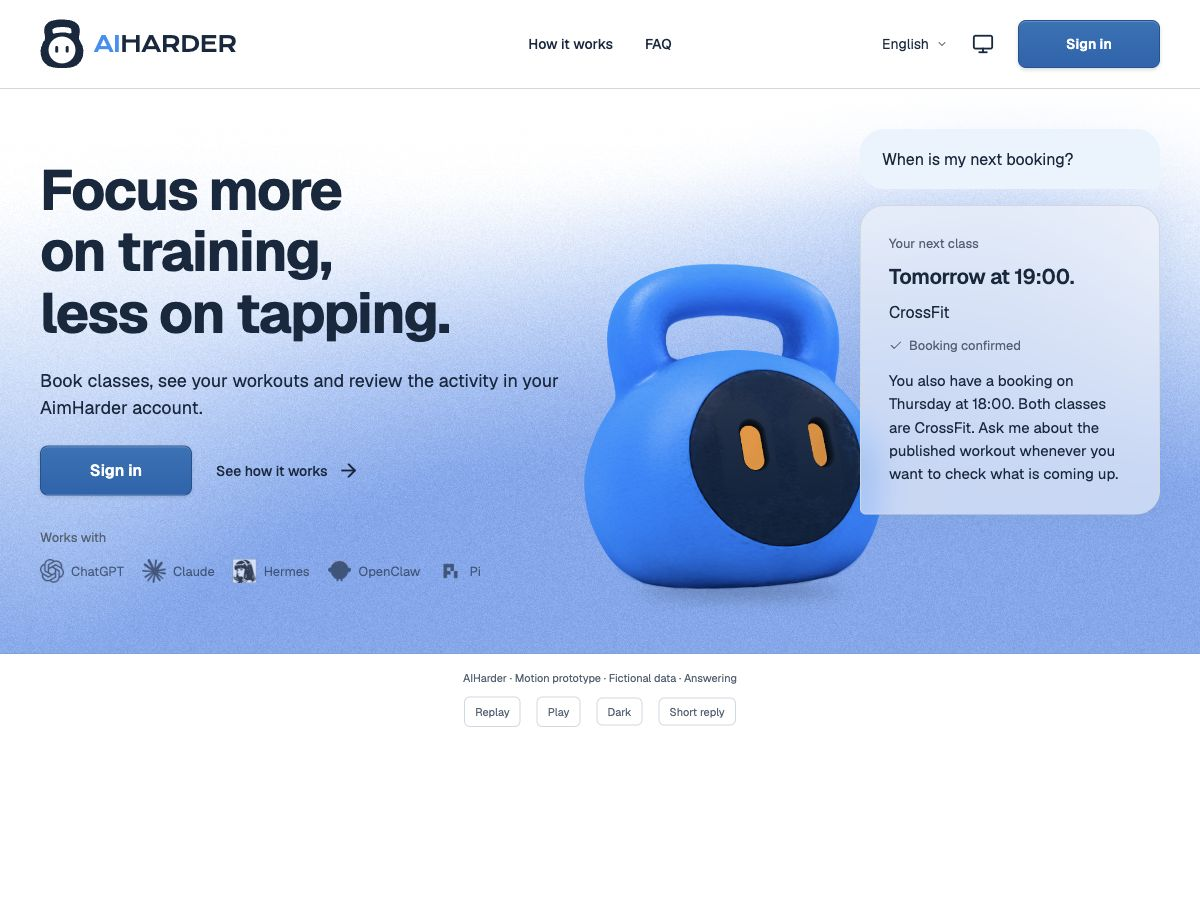
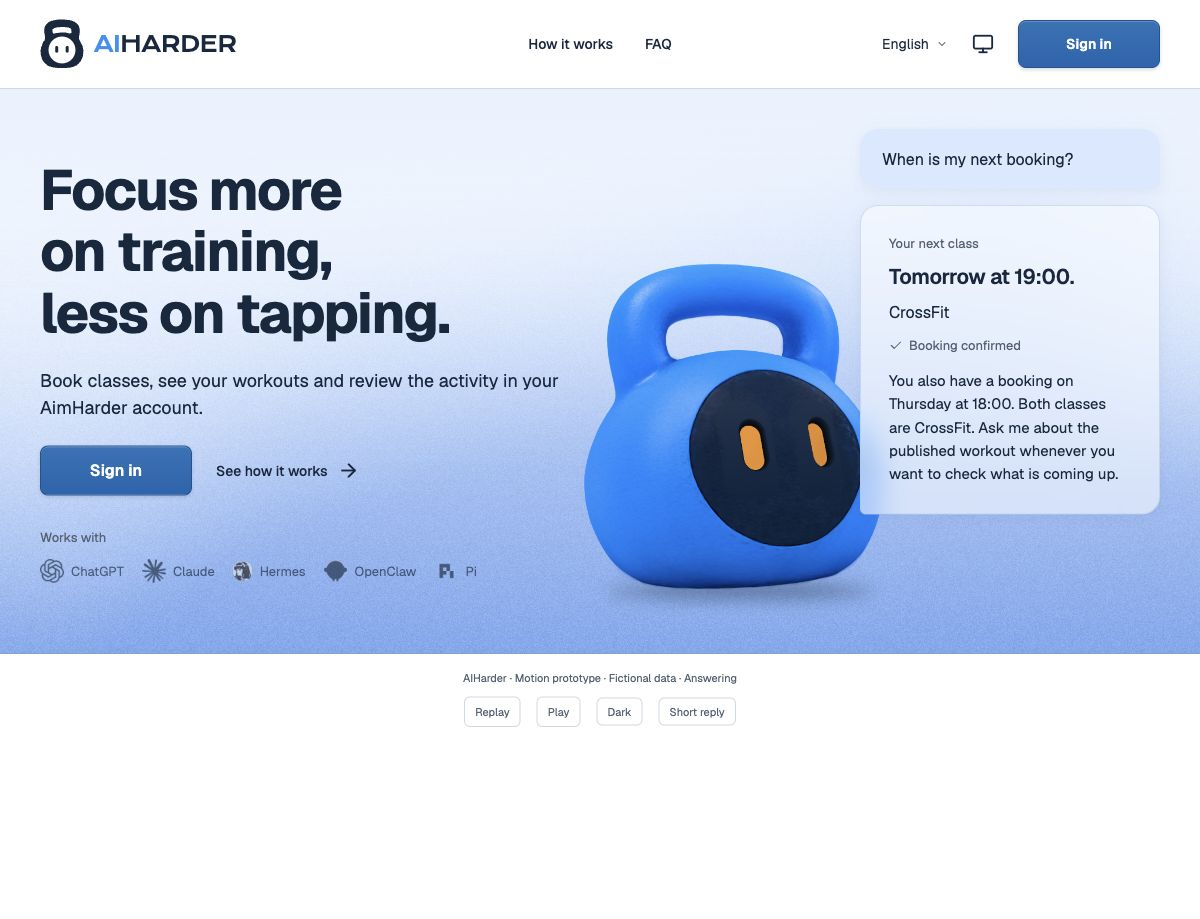
design: soften hero palette and harmonize bubbles and mascot shadow

diff --git a/design/home-study/hero-motion-prototype.html b/design/home-study/hero-motion-prototype.html
@@ -2,8 +2,8 @@
 <!-- Throwaway #95 motion prototype: one owner-directed hero, no live chat or account access. -->
 <html lang="en"><head><meta charset="utf-8"><meta name="viewport" content="width=device-width,initial-scale=1"><title>AIHarder — Kettle motion prototype</title><script>const p=new URLSearchParams(location.search);document.documentElement.dataset.theme=p.get('theme')==='dark'?'dark':'light';document.documentElement.dataset.state=['waiting','question','thinking','answer'].includes(p.get('state'))?p.get('state'):'answer';</script><style>
 @font-face{font-family:Geist;src:url('./assets/fonts/Geist.ttf');font-weight:100 900;font-display:swap}@font-face{font-family:Krona;src:url('./assets/fonts/KronaOne-Regular.ttf');font-weight:400;font-display:swap}
-:root{--bg:#fff;--surface:#f4f7fa;--ink:#14283f;--muted:#516174;--line:#cfd8e3;--bubble:#e9f3fe;--blue:#2490f4;--cta:#1765b0;--cta-top:#2174b9;--on-cta:#fff;--edge:#12528f;--shadow:#14283f29;--reply:#f4f7fa99;--ground:#14283f32;--contact:#14283f40;color-scheme:light}:root[data-theme=dark]{--bg:#0d1521;--surface:#142033;--ink:#edf3fa;--muted:#abbacd;--line:#34465e;--bubble:#1c3551;--cta:#2490f4;--cta-top:#47a3f6;--on-cta:#0d1521;--edge:#61a9eb;--shadow:#0000003d;--reply:#14203399;--ground:#00000080;--contact:#00000099;color-scheme:dark}*{box-sizing:border-box}body{margin:0;background:var(--bg);color:var(--ink);font:16px/1.5 Geist,Arial,sans-serif}a{color:inherit;text-decoration:none}h1,p{margin:0}.container{width:calc(100% - 80px);max-width:1200px;margin:auto}.icon{width:22px;height:22px;display:inline-block;flex:none;background:currentColor;mask:var(--icon) center/contain no-repeat}.site-header{border-bottom:1px solid var(--line)}.header-inner{min-height:88px;display:grid;grid-template-columns:1fr 1fr 1fr;align-items:center}.brand{display:flex;gap:10px;align-items:center;font:400 21.875px/1 Krona,sans-serif;letter-spacing:-.546875px;white-space:nowrap}.brand img{width:43.75px;height:50px;object-fit:contain}.brand b{color:var(--blue);font-weight:400}.nav{display:flex;align-items:center;justify-content:center;gap:32px;font-size:14px;font-weight:500}.utilities{display:flex;align-items:center;justify-content:flex-end;gap:24px;font-size:14px}.language{display:flex;gap:7px;align-items:center}.language .icon{width:12px;height:12px}.primary{display:inline-flex;align-items:center;justify-content:center;min-height:48px;padding:12px 28px;border-radius:8px;border:1px solid var(--edge);font-weight:600;background:linear-gradient(var(--cta-top),var(--cta));color:var(--on-cta);box-shadow:inset 0 1px #ffffff30,0 2px 4px var(--shadow)}.header-signin{min-width:142px}.hero{padding:32px 0;display:grid;grid-template-columns:532px minmax(0,1fr);gap:72px;align-items:center}.pitch{display:flex;flex-direction:column;gap:24px;position:relative;z-index:2}h1{font-size:56px;line-height:1.1;letter-spacing:-1.5px;font-weight:700}.intro{font-size:18px;line-height:1.5;color:var(--muted);max-width:532px}.actions{display:flex;gap:24px;align-items:center}.actions .primary{min-width:152px}.text-link{display:inline-flex;align-items:center;gap:10px;font-size:14px;font-weight:500}.works{padding-top:8px}.works-label{font-size:13px;color:var(--muted);margin-bottom:12px}.apps{display:flex;gap:18px;align-items:center;opacity:.65}.app{display:flex;align-items:center;gap:7px;font-size:13px;white-space:nowrap}.app img{width:24px;height:24px;object-fit:contain}.scene{position:relative;height:500px;min-width:0}.kettle{position:absolute;left:-80px;top:96px;width:360px;height:390px;z-index:1;overflow:hidden}.kettle img{position:absolute;width:493.14px;height:493.14px;max-width:none;left:-77.06px;top:-65.5px}.ground{position:absolute;left:-16px;top:476px;width:236px;height:20px;border-radius:50%;background:var(--ground);filter:blur(8px);z-index:0;transform-origin:center}.ground::after{content:"";position:absolute;left:28px;top:5px;width:180px;height:7px;border-radius:50%;background:var(--contact);filter:blur(2px)}.bubble{position:absolute;font-size:16px;line-height:1.5;z-index:3}.question{right:0;top:8px;width:300px;background:var(--bubble);border-radius:24px 24px 6px 24px;padding:18px 22px}.answer{right:0;top:var(--reply-top,84px);width:344px;background:var(--reply);backdrop-filter:blur(12px);-webkit-backdrop-filter:blur(12px);border:1px solid var(--line);border-radius:24px 24px 24px 6px;padding:28px;box-shadow:0 6px 24px #14283f09}.answer .eyebrow{font-size:13px;color:var(--muted);margin-bottom:10px}.answer strong{display:block;font-size:21px;line-height:1.25;font-weight:600;letter-spacing:-.35px}.answer .class-name{margin-top:10px;font-size:16px}.answer .confirmed{display:flex;gap:6px;align-items:center;color:var(--muted);font-size:13px;margin-top:12px}.answer .confirmed .icon{width:14px;height:14px}.thinking{right:0;top:var(--reply-top,84px);width:90px;height:60px;border:1px solid var(--line);border-radius:22px;background:var(--surface);align-items:center;justify-content:center;gap:7px;display:none}.thinking span{display:block;width:7px;height:7px;background:var(--muted);border-radius:50%}.thinking span:nth-child(2){opacity:.7}.thinking span:nth-child(3){opacity:.4}[data-state=waiting] .question,[data-state=waiting] .answer,[data-state=question] .answer,[data-state=thinking] .answer{display:none}[data-state=thinking] .thinking{display:flex}.sr-only{position:absolute;width:1px;height:1px;overflow:hidden;clip-path:inset(50%)}.review-note{font-size:11px;color:var(--muted);padding:16px;text-align:center;border-top:1px solid var(--line)}
-@media(max-width:1320px){.kettle{left:-60px;top:126px;width:300px;height:344px}.kettle img{width:435.13px;height:435.13px;left:-68px;top:-57.79px}.answer{width:300px}.ground{left:-8px;top:460px;width:210px}.ground::after{width:154px}}
+:root{--bg:#fff;--surface:#f4f7fa;--ink:#14283f;--muted:#516174;--line:#cfd8e3;--bubble:#d9e9ff;--blue:#2490f4;--cta:#1765b0;--cta-top:#2174b9;--on-cta:#fff;--edge:#12528f;--shadow:#14283f29;--reply:#f8fbff99;--bubble-edge:#a9c3e480;--bubble-shadow:#234b7a12;--ground:#14283f4d;--contact:#14283f59;color-scheme:light}:root[data-theme=dark]{--bg:#0d1521;--surface:#142033;--ink:#edf3fa;--muted:#abbacd;--line:#34465e;--bubble:#203d5e;--cta:#2490f4;--cta-top:#47a3f6;--on-cta:#0d1521;--edge:#61a9eb;--shadow:#0000003d;--reply:#142b4599;--bubble-edge:#48688b80;--bubble-shadow:#00000026;--ground:#000000a6;--contact:#000000b3;color-scheme:dark}*{box-sizing:border-box}body{margin:0;background:var(--bg);color:var(--ink);font:16px/1.5 Geist,Arial,sans-serif}a{color:inherit;text-decoration:none}h1,p{margin:0}.container{width:calc(100% - 80px);max-width:1200px;margin:auto}.icon{width:22px;height:22px;display:inline-block;flex:none;background:currentColor;mask:var(--icon) center/contain no-repeat}.site-header{border-bottom:1px solid var(--line)}.header-inner{min-height:88px;display:grid;grid-template-columns:1fr 1fr 1fr;align-items:center}.brand{display:flex;gap:10px;align-items:center;font:400 21.875px/1 Krona,sans-serif;letter-spacing:-.546875px;white-space:nowrap}.brand img{width:43.75px;height:50px;object-fit:contain}.brand b{color:var(--blue);font-weight:400}.nav{display:flex;align-items:center;justify-content:center;gap:32px;font-size:14px;font-weight:500}.utilities{display:flex;align-items:center;justify-content:flex-end;gap:24px;font-size:14px}.language{display:flex;gap:7px;align-items:center}.language .icon{width:12px;height:12px}.primary{display:inline-flex;align-items:center;justify-content:center;min-height:48px;padding:12px 28px;border-radius:8px;border:1px solid var(--edge);font-weight:600;background:linear-gradient(var(--cta-top),var(--cta));color:var(--on-cta);box-shadow:inset 0 1px #ffffff30,0 2px 4px var(--shadow)}.header-signin{min-width:142px}.hero{padding:32px 0;display:grid;grid-template-columns:532px minmax(0,1fr);gap:72px;align-items:center}.pitch{display:flex;flex-direction:column;gap:24px;position:relative;z-index:2}h1{font-size:56px;line-height:1.1;letter-spacing:-1.5px;font-weight:700}.intro{font-size:18px;line-height:1.5;color:var(--muted);max-width:532px}.actions{display:flex;gap:24px;align-items:center}.actions .primary{min-width:152px}.text-link{display:inline-flex;align-items:center;gap:10px;font-size:14px;font-weight:500}.works{padding-top:8px}.works-label{font-size:13px;color:var(--muted);margin-bottom:12px}.apps{display:flex;gap:18px;align-items:center;opacity:.65}.app{display:flex;align-items:center;gap:7px;font-size:13px;white-space:nowrap}.app img{width:24px;height:24px;object-fit:contain}.app[data-app=hermes] img{width:20px;height:20px;border-radius:50%;filter:grayscale(1) contrast(.8);object-fit:cover}.scene{position:relative;height:500px;min-width:0}.kettle{position:absolute;left:-80px;top:96px;width:360px;height:390px;z-index:1;overflow:hidden}.kettle img{position:absolute;width:493.14px;height:493.14px;max-width:none;left:-77.06px;top:-65.5px}.ground{position:absolute;left:-48px;top:476px;width:300px;height:20px;border-radius:50%;background:var(--ground);filter:blur(8px);z-index:0;transform-origin:center}.ground::after{content:"";position:absolute;left:38px;top:5px;width:224px;height:7px;border-radius:50%;background:var(--contact);filter:blur(2px)}.bubble{position:absolute;font-size:16px;line-height:1.5;z-index:3;box-shadow:0 3px 12px var(--bubble-shadow)}.question{right:0;top:8px;width:300px;background:var(--bubble);border-radius:18px 18px 6px 18px;padding:18px 22px}.answer{right:0;top:var(--reply-top,84px);width:344px;background:var(--reply);backdrop-filter:blur(12px);-webkit-backdrop-filter:blur(12px);border:1px solid var(--bubble-edge);border-radius:18px 18px 18px 6px;padding:28px}.answer .eyebrow{font-size:13px;color:var(--muted);margin-bottom:10px}.answer strong{display:block;font-size:21px;line-height:1.25;font-weight:600;letter-spacing:-.35px}.answer .class-name{margin-top:10px;font-size:16px}.answer .confirmed{display:flex;gap:6px;align-items:center;color:var(--muted);font-size:13px;margin-top:12px}.answer .confirmed .icon{width:14px;height:14px}.thinking{right:0;top:var(--reply-top,84px);width:90px;height:60px;border:1px solid var(--bubble-edge);border-radius:16px;background:var(--reply);backdrop-filter:blur(12px);-webkit-backdrop-filter:blur(12px);align-items:center;justify-content:center;gap:7px;display:none}.thinking span{display:block;width:7px;height:7px;background:var(--muted);border-radius:50%}.thinking span:nth-child(2){opacity:.7}.thinking span:nth-child(3){opacity:.4}[data-state=waiting] .question,[data-state=waiting] .answer,[data-state=question] .answer,[data-state=thinking] .answer{display:none}[data-state=thinking] .thinking{display:flex}.sr-only{position:absolute;width:1px;height:1px;overflow:hidden;clip-path:inset(50%)}.review-note{font-size:11px;color:var(--muted);padding:16px;text-align:center;border-top:1px solid var(--line)}
+@media(max-width:1320px){.kettle{left:-60px;top:126px;width:300px;height:344px}.kettle img{width:435.13px;height:435.13px;left:-68px;top:-57.79px}.answer{width:300px}.ground{left:-36px;top:460px;width:266px}.ground::after{left:34px;width:198px}}
 @media(max-width:1150px){.hero{grid-template-columns:46% 1fr;gap:40px}h1{font-size:50px}.brand{font-size:20px}.utilities{gap:16px}.nav{gap:24px}.question{width:270px}.answer{width:300px}.kettle{left:-70px}.apps{gap:12px}.app{font-size:12px;gap:5px}}
 @media(max-width:850px){.container{width:calc(100% - 40px)}.header-inner{grid-template-columns:1fr auto;min-height:80px}.nav{display:none}.utilities{gap:16px}.language{display:none}.hero{display:block;padding-top:28px}.pitch{max-width:532px}.scene{height:520px;margin:32px auto 0;max-width:596px}.kettle{left:0}.question{right:0}.answer{right:0}.apps{flex-wrap:wrap}h1{font-size:44px}.header-signin{min-width:100px;padding:12px 18px}.brand{font-size:17px}.brand img{width:35px;height:40px}}
[2 lines of base64/hex data omitted]

diff --git a/design/home-study/hero-graphic-still.html b/design/home-study/hero-graphic-still.html
@@ -2,8 +2,8 @@
 <!-- Static composition study for #95. No animation, real chat, account access or production behavior. -->
 <html lang="en"><head><meta charset="utf-8"><meta name="viewport" content="width=device-width,initial-scale=1"><title>AIHarder — Kettle hero composition</title><script>const p=new URLSearchParams(location.search);document.documentElement.dataset.theme=p.get('theme')==='dark'?'dark':'light';document.documentElement.dataset.state=['waiting','question','thinking','answer'].includes(p.get('state'))?p.get('state'):'answer';</script><style>
 @font-face{font-family:Geist;src:url('./assets/fonts/Geist.ttf');font-weight:100 900;font-display:swap}@font-face{font-family:Krona;src:url('./assets/fonts/KronaOne-Regular.ttf');font-weight:400;font-display:swap}
-:root{--bg:#fff;--surface:#f4f7fa;--ink:#14283f;--muted:#516174;--line:#cfd8e3;--bubble:#e9f3fe;--blue:#2490f4;--cta:#1765b0;--cta-top:#2174b9;--on-cta:#fff;--edge:#12528f;--shadow:#14283f29;--reply:#f4f7fa99;--ground:#14283f32;--contact:#14283f40;color-scheme:light}:root[data-theme=dark]{--bg:#0d1521;--surface:#142033;--ink:#edf3fa;--muted:#abbacd;--line:#34465e;--bubble:#1c3551;--cta:#2490f4;--cta-top:#47a3f6;--on-cta:#0d1521;--edge:#61a9eb;--shadow:#0000003d;--reply:#14203399;--ground:#00000080;--contact:#00000099;color-scheme:dark}*{box-sizing:border-box}body{margin:0;background:var(--bg);color:var(--ink);font:16px/1.5 Geist,Arial,sans-serif}a{color:inherit;text-decoration:none}h1,p{margin:0}.container{width:calc(100% - 80px);max-width:1200px;margin:auto}.icon{width:22px;height:22px;display:inline-block;flex:none;background:currentColor;mask:var(--icon) center/contain no-repeat}.site-header{border-bottom:1px solid var(--line)}.header-inner{min-height:88px;display:grid;grid-template-columns:1fr 1fr 1fr;align-items:center}.brand{display:flex;gap:10px;align-items:center;font:400 21.875px/1 Krona,sans-serif;letter-spacing:-.546875px;white-space:nowrap}.brand img{width:43.75px;height:50px;object-fit:contain}.brand b{color:var(--blue);font-weight:400}.nav{display:flex;align-items:center;justify-content:center;gap:32px;font-size:14px;font-weight:500}.utilities{display:flex;align-items:center;justify-content:flex-end;gap:24px;font-size:14px}.language{display:flex;gap:7px;align-items:center}.language .icon{width:12px;height:12px}.primary{display:inline-flex;align-items:center;justify-content:center;min-height:48px;padding:12px 28px;border-radius:8px;border:1px solid var(--edge);font-weight:600;background:linear-gradient(var(--cta-top),var(--cta));color:var(--on-cta);box-shadow:inset 0 1px #ffffff30,0 2px 4px var(--shadow)}.header-signin{min-width:142px}.hero{padding:32px 0;display:grid;grid-template-columns:532px minmax(0,1fr);gap:72px;align-items:center}.pitch{display:flex;flex-direction:column;gap:24px;position:relative;z-index:2}h1{font-size:56px;line-height:1.1;letter-spacing:-1.5px;font-weight:700}.intro{font-size:18px;line-height:1.5;color:var(--muted);max-width:532px}.actions{display:flex;gap:24px;align-items:center}.actions .primary{min-width:152px}.text-link{display:inline-flex;align-items:center;gap:10px;font-size:14px;font-weight:500}.works{padding-top:8px}.works-label{font-size:13px;color:var(--muted);margin-bottom:12px}.apps{display:flex;gap:18px;align-items:center;opacity:.65}.app{display:flex;align-items:center;gap:7px;font-size:13px;white-space:nowrap}.app img{width:24px;height:24px;object-fit:contain}.scene{position:relative;height:500px;min-width:0}.kettle{position:absolute;left:-80px;top:96px;width:360px;height:390px;z-index:1;overflow:hidden}.kettle img{position:absolute;width:493.14px;height:493.14px;max-width:none;left:-77.06px;top:-65.5px}.ground{position:absolute;left:-16px;top:476px;width:236px;height:20px;border-radius:50%;background:var(--ground);filter:blur(8px);z-index:0;transform-origin:center}.ground::after{content:"";position:absolute;left:28px;top:5px;width:180px;height:7px;border-radius:50%;background:var(--contact);filter:blur(2px)}.bubble{position:absolute;font-size:16px;line-height:1.5;z-index:3}.question{right:0;top:8px;width:300px;background:var(--bubble);border-radius:24px 24px 6px 24px;padding:18px 22px}.answer{right:0;top:var(--reply-top,84px);width:344px;background:var(--reply);backdrop-filter:blur(12px);-webkit-backdrop-filter:blur(12px);border:1px solid var(--line);border-radius:24px 24px 24px 6px;padding:28px;box-shadow:0 6px 24px #14283f09}.answer .eyebrow{font-size:13px;color:var(--muted);margin-bottom:10px}.answer strong{display:block;font-size:21px;line-height:1.25;font-weight:600;letter-spacing:-.35px}.answer .class-name{margin-top:10px;font-size:16px}.answer .confirmed{display:flex;gap:6px;align-items:center;color:var(--muted);font-size:13px;margin-top:12px}.answer .confirmed .icon{width:14px;height:14px}.thinking{right:0;top:var(--reply-top,84px);width:90px;height:60px;border:1px solid var(--line);border-radius:22px;background:var(--surface);align-items:center;justify-content:center;gap:7px;display:none}.thinking span{display:block;width:7px;height:7px;background:var(--muted);border-radius:50%}.thinking span:nth-child(2){opacity:.7}.thinking span:nth-child(3){opacity:.4}[data-state=waiting] .question,[data-state=waiting] .answer,[data-state=question] .answer,[data-state=thinking] .answer{display:none}[data-state=thinking] .thinking{display:flex}.sr-only{position:absolute;width:1px;height:1px;overflow:hidden;clip-path:inset(50%)}.review-note{font-size:11px;color:var(--muted);padding:16px;text-align:center;border-top:1px solid var(--line)}
-@media(max-width:1320px){.kettle{left:-60px;top:126px;width:300px;height:344px}.kettle img{width:435.13px;height:435.13px;left:-68px;top:-57.79px}.answer{width:300px}.ground{left:-8px;top:460px;width:210px}.ground::after{width:154px}}
+:root{--bg:#fff;--surface:#f4f7fa;--ink:#14283f;--muted:#516174;--line:#cfd8e3;--bubble:#d9e9ff;--blue:#2490f4;--cta:#1765b0;--cta-top:#2174b9;--on-cta:#fff;--edge:#12528f;--shadow:#14283f29;--reply:#f8fbff99;--bubble-edge:#a9c3e480;--bubble-shadow:#234b7a12;--ground:#14283f4d;--contact:#14283f59;color-scheme:light}:root[data-theme=dark]{--bg:#0d1521;--surface:#142033;--ink:#edf3fa;--muted:#abbacd;--line:#34465e;--bubble:#203d5e;--cta:#2490f4;--cta-top:#47a3f6;--on-cta:#0d1521;--edge:#61a9eb;--shadow:#0000003d;--reply:#142b4599;--bubble-edge:#48688b80;--bubble-shadow:#00000026;--ground:#000000a6;--contact:#000000b3;color-scheme:dark}*{box-sizing:border-box}body{margin:0;background:var(--bg);color:var(--ink);font:16px/1.5 Geist,Arial,sans-serif}a{color:inherit;text-decoration:none}h1,p{margin:0}.container{width:calc(100% - 80px);max-width:1200px;margin:auto}.icon{width:22px;height:22px;display:inline-block;flex:none;background:currentColor;mask:var(--icon) center/contain no-repeat}.site-header{border-bottom:1px solid var(--line)}.header-inner{min-height:88px;display:grid;grid-template-columns:1fr 1fr 1fr;align-items:center}.brand{display:flex;gap:10px;align-items:center;font:400 21.875px/1 Krona,sans-serif;letter-spacing:-.546875px;white-space:nowrap}.brand img{width:43.75px;height:50px;object-fit:contain}.brand b{color:var(--blue);font-weight:400}.nav{display:flex;align-items:center;justify-content:center;gap:32px;font-size:14px;font-weight:500}.utilities{display:flex;align-items:center;justify-content:flex-end;gap:24px;font-size:14px}.language{display:flex;gap:7px;align-items:center}.language .icon{width:12px;height:12px}.primary{display:inline-flex;align-items:center;justify-content:center;min-height:48px;padding:12px 28px;border-radius:8px;border:1px solid var(--edge);font-weight:600;background:linear-gradient(var(--cta-top),var(--cta));color:var(--on-cta);box-shadow:inset 0 1px #ffffff30,0 2px 4px var(--shadow)}.header-signin{min-width:142px}.hero{padding:32px 0;display:grid;grid-template-columns:532px minmax(0,1fr);gap:72px;align-items:center}.pitch{display:flex;flex-direction:column;gap:24px;position:relative;z-index:2}h1{font-size:56px;line-height:1.1;letter-spacing:-1.5px;font-weight:700}.intro{font-size:18px;line-height:1.5;color:var(--muted);max-width:532px}.actions{display:flex;gap:24px;align-items:center}.actions .primary{min-width:152px}.text-link{display:inline-flex;align-items:center;gap:10px;font-size:14px;font-weight:500}.works{padding-top:8px}.works-label{font-size:13px;color:var(--muted);margin-bottom:12px}.apps{display:flex;gap:18px;align-items:center;opacity:.65}.app{display:flex;align-items:center;gap:7px;font-size:13px;white-space:nowrap}.app img{width:24px;height:24px;object-fit:contain}.app[data-app=hermes] img{width:20px;height:20px;border-radius:50%;filter:grayscale(1) contrast(.8);object-fit:cover}.scene{position:relative;height:500px;min-width:0}.kettle{position:absolute;left:-80px;top:96px;width:360px;height:390px;z-index:1;overflow:hidden}.kettle img{position:absolute;width:493.14px;height:493.14px;max-width:none;left:-77.06px;top:-65.5px}.ground{position:absolute;left:-48px;top:476px;width:300px;height:20px;border-radius:50%;background:var(--ground);filter:blur(8px);z-index:0;transform-origin:center}.ground::after{content:"";position:absolute;left:38px;top:5px;width:224px;height:7px;border-radius:50%;background:var(--contact);filter:blur(2px)}.bubble{position:absolute;font-size:16px;line-height:1.5;z-index:3;box-shadow:0 3px 12px var(--bubble-shadow)}.question{right:0;top:8px;width:300px;background:var(--bubble);border-radius:18px 18px 6px 18px;padding:18px 22px}.answer{right:0;top:var(--reply-top,84px);width:344px;background:var(--reply);backdrop-filter:blur(12px);-webkit-backdrop-filter:blur(12px);border:1px solid var(--bubble-edge);border-radius:18px 18px 18px 6px;padding:28px}.answer .eyebrow{font-size:13px;color:var(--muted);margin-bottom:10px}.answer strong{display:block;font-size:21px;line-height:1.25;font-weight:600;letter-spacing:-.35px}.answer .class-name{margin-top:10px;font-size:16px}.answer .confirmed{display:flex;gap:6px;align-items:center;color:var(--muted);font-size:13px;margin-top:12px}.answer .confirmed .icon{width:14px;height:14px}.thinking{right:0;top:var(--reply-top,84px);width:90px;height:60px;border:1px solid var(--bubble-edge);border-radius:16px;background:var(--reply);backdrop-filter:blur(12px);-webkit-backdrop-filter:blur(12px);align-items:center;justify-content:center;gap:7px;display:none}.thinking span{display:block;width:7px;height:7px;background:var(--muted);border-radius:50%}.thinking span:nth-child(2){opacity:.7}.thinking span:nth-child(3){opacity:.4}[data-state=waiting] .question,[data-state=waiting] .answer,[data-state=question] .answer,[data-state=thinking] .answer{display:none}[data-state=thinking] .thinking{display:flex}.sr-only{position:absolute;width:1px;height:1px;overflow:hidden;clip-path:inset(50%)}.review-note{font-size:11px;color:var(--muted);padding:16px;text-align:center;border-top:1px solid var(--line)}
+@media(max-width:1320px){.kettle{left:-60px;top:126px;width:300px;height:344px}.kettle img{width:435.13px;height:435.13px;left:-68px;top:-57.79px}.answer{width:300px}.ground{left:-36px;top:460px;width:266px}.ground::after{left:34px;width:198px}}
 @media(max-width:1150px){.hero{grid-template-columns:46% 1fr;gap:40px}h1{font-size:50px}.brand{font-size:20px}.utilities{gap:16px}.nav{gap:24px}.question{width:270px}.answer{width:300px}.kettle{left:-70px}.apps{gap:12px}.app{font-size:12px;gap:5px}}
 @media(max-width:850px){.container{width:calc(100% - 40px)}.header-inner{grid-template-columns:1fr auto;min-height:80px}.nav{display:none}.utilities{gap:16px}.language{display:none}.hero{display:block;padding-top:28px}.pitch{max-width:532px}.scene{height:520px;margin:32px auto 0;max-width:596px}.kettle{left:0}.question{right:0}.answer{right:0}.apps{flex-wrap:wrap}h1{font-size:44px}.header-signin{min-width:100px;padding:12px 18px}.brand{font-size:17px}.brand img{width:35px;height:40px}}
[2 lines of base64/hex data omitted]

diff --git a/design/home-study/hero-surface-study.md b/design/home-study/hero-surface-study.md
@@ -44,3 +44,14 @@ Verified the full-width correction visually in Light/Dark at 1200px. The backgro
 The owner requested blue from the very bottom of the hero grading toward white above, with a blue-tinted lower boundary. Removed the bottom-to-white fade in both HTML sources/themes. The existing 180-degree Grainient palette now reaches the final bottom pixel; only the upper blend remains (white in Light, page navy in Dark). A 1px blue border closes the hero (`#79a4dc` Light / `#2d609b` Dark), replacing the adjacent review-footer divider to avoid a double rule. The prior full-width study’s retained bottom fade is superseded here. No shader, timing, API, native pen or architecture/ADR changes are involved.
 
 Verified Light/Dark at 1200px: the gradient remains blue at the lower edge, the 1px border uses the theme-specific blue and the adjacent footer has no second top border. Computed styles confirm a top-only fade and no horizontal overflow. Captures/checks are updated; broader runtime tests are unnecessary for this CSS-only refinement.
+
+## Pale upper blue, softer bubbles, wider contact and Hermes avatar — 2026-11-01
+
+The owner's subsequent notes requested a very pale blue upper hero distinct from the white header, bubble colors suited to the background with slightly smaller radii and subtle shadows, and a darker/wider kettle shadow. The owner also asked how to harmonize Hermes with the other client symbols.
+
+- Light now uses a `#e8f2ff` upper color wash fading out across the hero height, with the same pale-blue CSS fallback start. The underlying Grainient palette is unchanged; its blue lower edge/border remains. Dark retains its navy upper blend. This supersedes the preceding white upper blend.
+- Incoming bubbles use `#d9e9ff` / `#203d5e`; replies and thinking use `#f8fbff99` / `#142b4599`, retaining 60% surface alpha and 12px blur. Major radii fall from 24 to 18px while the 6px distinctive corner remains; thinking uses 16px. A shared 0/3/12px shadow has 7% blue-black alpha in Light and 15% black in Dark, with a soft blue-tinted reply border.
+- The outer kettle shadow grows from 236 to 300px (210 to 266px at the narrower desktop size), and the core from 180 to 224px (154 to 198px narrow). Both centers stay fixed; height/blur and the existing hop-linked transform/opacity behavior remain. Light outer alpha rises from 20% to 30%, core from 25% to 35%; Dark uses 65% / 70% black.
+- Hermes retains the original girl portrait with a CSS-only circular 20px avatar, grayscale and 0.8 contrast. The shared Works with row opacity remains 65%. No source asset was retouched or replaced. A simplified vector portrait is an alternative proposal, not a generated or approved asset.
+
+Inspected the combined refinements in Light/Dark at 1200px. Computed styles confirmed the pale upper wash, 18px/6px corners, subtle shared shadow, 266px centered shadow footprint and Hermes' original asset/20px/circular/contrast treatment; neither view overflows. Captures/checks are updated. These remain desktop English HTML refinements; no native pen, product API, architecture or ADR change is involved.

diff --git a/design/home-study/assets/README.md b/design/home-study/assets/README.md
@@ -42,3 +42,5 @@ The two active AIHarder desktop views use the unedited original Hermes portrait 
 ## Flat header mascot — 2026-11-01
 
 `kettle-flat-light.svg` and `kettle-flat-dark.svg` use the existing neutral poster alpha as an automatically traced vector silhouette. The handle hole is retained; a white face circle and navy eye capsules provide the requested flat construction. Dark retains navy/white fills with a thin light outer keyline. [Exporter](../render-flat-mark.html) and [surface study](../hero-surface-study.md) record the method. Original PNG/model assets are unchanged. React Bits background source has a separate retained [license notice](../vendor/README.md).
+
+The current HTML hero displays the unchanged Hermes girl portrait as a 20px circular avatar with CSS grayscale/0.8 contrast. Source hashes and the shared logo-row opacity are unchanged. This is a reversible display treatment, not a replacement client logo or new artwork.
